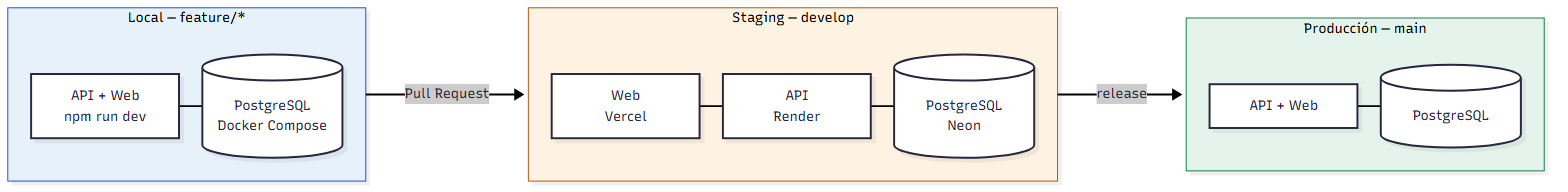
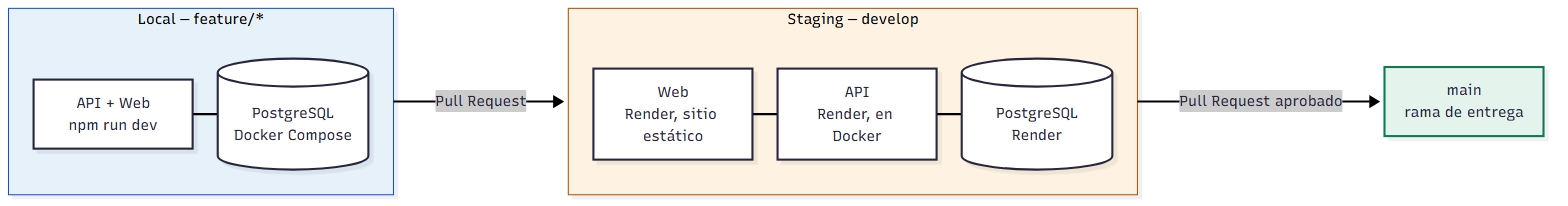
docs: actualizar el diagrama de componentes con los nueve modulos, los puertos actuales y el despliegue real

diff --git a/docs/diagramas/02-componentes.md b/docs/diagramas/02-componentes.md
@@ -4,7 +4,7 @@
 | | |
 |---|---|
 | **Responsable** | Fernando (diagramas) · revisado por el equipo |
-| **Fecha** | 5 de septiembre de 2026 · **Versión** 1.1 (11 sep: verificado contra el código) |
+| **Fecha** | 5 de septiembre de 2026 · **Versión** 1.3 (28 oct: los nueve módulos, los puertos actuales y el despliegue real) |
 
 > Este diagrama debe reflejar la arquitectura elegida —monolito modular en capas con puertos y
 > adaptadores— y mostrar las interfaces, no solo las cajas. Las flechas indican dependencia:
@@ -34,7 +34,7 @@ flowchart TB
 
     BD[("🗄 PostgreSQL 16")]
     ALM["📁 Almacenamiento<br/>de documentos"]
-    NOTI["✉ Servicio de<br/>notificaciones"]
+    NOTI["✉ Correo<br/><i>consola o SMTP</i>"]
     EXT["🏛 Entidades externas<br/><i>RENAP, MinEduc</i>"]
 
     NAV -->|HTTPS| WEB
@@ -45,7 +45,7 @@ flowchart TB
     INFR --> BD
     INFR --> ALM
     INFR --> NOTI
-    INFR -.->|Sprint 6| EXT
+    INFR -.->|no implementada| EXT
 
     style DOMI fill:#fef3e2,stroke:#b45309,stroke-width:3px
     style DESPLIEGUE fill:#f0f7fc,stroke:#12609c,stroke-width:2px
@@ -71,37 +71,52 @@ El monolito está dividido por dentro. Cada módulo repite las cuatro capas.
 flowchart LR
     subgraph MODULOS["modules/"]
         direction TB
-        M1["<b>usuarios</b> ✅<br/>autenticación y roles"]
-        M2["<b>convocatorias</b> ✅<br/>programas de beca"]
-        M3["<b>estudiantes</b> ⬜<br/>perfil del aspirante"]
-        M4["<b>solicitudes</b> ⬜<br/>expediente y su ciclo"]
-        M5["<b>evaluaciones</b> ⬜<br/>comités y dictámenes"]
-        M6["<b>reportes</b> ⬜<br/>estadísticas"]
-        M7["<b>salud</b> ✅<br/>liveness y readiness"]
+        M1["<b>usuarios</b><br/>cuentas, acceso y recuperación"]
+        M2["<b>convocatorias</b><br/>programas de beca"]
+        M3["<b>estudiantes</b><br/>perfil del aspirante"]
+        M4["<b>solicitudes</b><br/>expediente, ciclo y avisos"]
+        M5["<b>evaluaciones</b><br/>comités y dictámenes"]
+        M6["<b>resoluciones</b><br/>aprobar, adjudicar y consulta pública"]
+        M7["<b>reportes</b><br/>estadísticas y exportación"]
+        M8["<b>bitacora</b><br/>auditoría"]
+        M9["<b>salud</b><br/>liveness y readiness"]
     end
 
     subgraph COMPARTIDO["shared/"]
         direction TB
         S1["<b>exceptions</b><br/>errores de dominio<br/>y filtro global"]
         S2["<b>persistence</b><br/>PrismaService"]
+        S3["<b>reglas</b><br/>umbral de la segunda aprobación"]
     end
 
-    M4 -->|capa de aplicación| M2
-    M4 -->|capa de aplicación| M3
-    M5 -->|capa de aplicación| M4
-    M6 -->|capa de aplicación| M4
+    M4 --> M2
+    M4 --> M3
+    M5 --> M4
+    M5 --> M2
+    M5 --> M3
+    M5 --> M1
+    M6 --> M4
+    M6 --> M5
+    M6 --> M2
+    M6 --> M1
+    M7 --> M4
+    M7 --> M3
+    M7 --> M2
 
     M1 --> COMPARTIDO
     M2 --> COMPARTIDO
     M4 --> COMPARTIDO
+    M8 --> COMPARTIDO
+    M9 --> COMPARTIDO
 
-    style M1 fill:#e4f4ec,stroke:#0f7a52
-    style M2 fill:#e4f4ec,stroke:#0f7a52
+    style M6 fill:#fef3e2,stroke:#b45309
     style MODULOS fill:#f0f7fc,stroke:#12609c
     style COMPARTIDO fill:#fef3e2,stroke:#b45309
 ```
 
-✅ construido · ⬜ pendiente
+Cada flecha entre módulos pasa por la capa de aplicación. `resoluciones` está resaltado porque es el módulo más alto: depende de cuatro y nadie depende de él.
+`bitacora` no depende de ningún otro módulo: la escribe un middleware global y los demás ni lo
+mencionan.
 
 **Regla de comunicación entre módulos.** Un módulo solo llama a la capa de aplicación de
 otro. Nunca importa sus entidades de dominio ni su repositorio.
@@ -118,12 +133,19 @@ ninguna de sus ventajas. Se verifica en cada code review.
 
 | Interfaz | Consumidor | Estado |
 |---|---|---|
-| `POST /auth/login` | WebApp | 🟢 Implementada |
-| `GET /convocatorias` | WebApp | 🟢 Implementada |
-| `GET /health` | Monitoreo · CI | 🟢 Implementada — *liveness*: responde si el proceso vive |
-| `GET /ready` | Monitoreo · CI · Staging | 🟢 Implementada — *readiness*: 503 si PostgreSQL no responde |
-| `POST /solicitudes` | WebApp | 🔴 Sprint 4 |
-| `GET /consulta-publica/{numero}` | WebApp, sin autenticación | 🔴 Sprint 6 |
+| `/auth/*`: login, registro y recuperación de contraseña | WebApp | 🟢 |
+| `/convocatorias/*` | WebApp | 🟢 |
+| `/estudiantes/*` | WebApp | 🟢 |
+| `/solicitudes/*` y `/notificaciones/*` | WebApp | 🟢 |
+| `/evaluadores`, `/comites/*` y `/evaluaciones/*` | WebApp | 🟢 |
+| `/resoluciones/*` | WebApp | 🟢 |
+| `POST /consulta-publica` | WebApp, sin autenticación | 🟢 |
+| `/reportes/*` | WebApp | 🟢 |
+| `/bitacora/*` | WebApp | 🟢 |
+| `GET /health` | Monitoreo · CI | 🟢 *Liveness*: responde si el proceso vive |
+| `GET /ready` | Monitoreo · CI · Staging | 🟢 *Readiness*: 503 si PostgreSQL no responde |
+
+El detalle de cada ruta, con su rol y sus códigos de error, está en `20-manual-tecnico.md §4.1`.
 
 ### Puertos que el dominio declara
 
@@ -137,12 +159,21 @@ en `domain/`; cada adaptador la implementa en `infrastructure/`.
 | `GeneradorToken` | `JwtGeneradorTokenAdapter` | usuarios | 🟢 |
 | `VerificadorToken` | `JwtVerificadorTokenAdapter` | usuarios | 🟢 — lo consume el guard global (US-003) |
 | `ConvocatoriaRepositorio` | `ConvocatoriaPrismaRepositorio`<br/>`ConvocatoriaEnMemoriaRepositorio` | convocatorias | 🟢 |
-| `AlmacenamientoDocumentosPort` | `AlmacenamientoLocalAdapter`<br/>`AlmacenamientoNubeAdapter` | solicitudes | 🔴 Sprint 4 |
-| `NotificacionPort` | `NotificacionConsolaAdapter`<br/>`NotificacionCorreoAdapter` | solicitudes | 🔴 Sprint 5 |
+| `EnviadorCorreo` | `CorreoConsolaAdapter`<br/>`CorreoSmtpAdapter` | usuarios | 🟢 El SMTP no está verificado contra un servidor real |
+| `TokenRecuperacionRepositorio` | `TokenRecuperacionPrismaRepositorio`<br/>`TokenRecuperacionEnMemoriaRepositorio` | usuarios | 🟢 |
+| `AlmacenamientoDocumentos` | `AlmacenamientoLocalAdapter`<br/>`AlmacenamientoMemoriaAdapter` | solicitudes | 🟢 El de nube no existe |
+| `NotificadorSolicitudes` | `NotificadorConsolaAdapter` | solicitudes | 🟢 |
+| `NotificacionRepositorio` | `NotificacionPrismaRepositorio`<br/>`NotificacionEnMemoriaRepositorio` | solicitudes | 🟢 La bandeja de avisos (US-034) |
+| `BitacoraRepositorio` | `BitacoraPrismaRepositorio`<br/>`BitacoraEnMemoriaRepositorio` | bitacora | 🟢 Solo escribe y lee |
+| `ExportadorReporte` | `CsvExportador`<br/>`PdfExportador` | reportes | 🟢 |
 
-> **Cada puerto cuenta con dos adaptadores**, uno real y uno de prueba. Es lo que
-> permite que las 106 pruebas unitarias corran en segundos sin levantar PostgreSQL, y es la demostración
-> práctica del principio de sustitución de Liskov.
+> Los puertos de persistencia tienen un adaptador real y uno en memoria para las pruebas. Es lo
+> que permite que las 504 pruebas unitarias corran en segundos sin levantar PostgreSQL, y es la
+> demostración práctica del principio de sustitución de Liskov.
+>
+> Los puertos que cruzan módulos (`ConsultaSolicitudes`, `ConsultaConvocatorias`,
+> `ConsultaPerfiles` y sus equivalentes en `evaluaciones`, `resoluciones` y `reportes`) no se
+> listan aquí; están en el Manual Técnico, sección 3.3.
 
 ---
 
@@ -190,26 +221,22 @@ flowchart LR
     end
 
     subgraph STAGING["Staging — develop"]
-        S1["API<br/>Render"]
-        S2["Web<br/>Vercel"]
-        S3[("PostgreSQL<br/>Neon")]
+        S1["API<br/>Render, en Docker"]
+        S2["Web<br/>Render, sitio estático"]
+        S3[("PostgreSQL<br/>Render")]
         S2 --- S1 --- S3
     end
 
-    subgraph PROD["Producción — main"]
-        P1["API + Web"]
-        P2[("PostgreSQL")]
-        P1 --- P2
-    end
+    MAIN["main<br/>rama de entrega"]
 
     LOCAL -->|Pull Request| STAGING
-    STAGING -->|release| PROD
+    STAGING -->|Pull Request aprobado| MAIN
 
     style LOCAL fill:#e6f1fa,stroke:#1d4ed8
     style STAGING fill:#fef3e2,stroke:#b45309
-    style PROD fill:#e4f4ec,stroke:#0f7a52
+    style MAIN fill:#e4f4ec,stroke:#0f7a52
 ```
 
-> ⚠ **Staging no está desplegado todavía.** Es el bloqueo más grande del proyecto: la Definition
-> of Done exige que cada historia esté desplegada y verificada por el Product Owner, así que
-> mientras no exista, ninguna historia puede darse por terminada. Responsable: Ivan.
+Staging se despliega desde `develop` y está definido como código en `render.yaml`. El workflow
+*Verificar Staging* comprueba `/health`, `/ready`, el listado público y que el login rechace
+credenciales inválidas. `main` es la rama de entrega y no tiene un despliegue propio.
